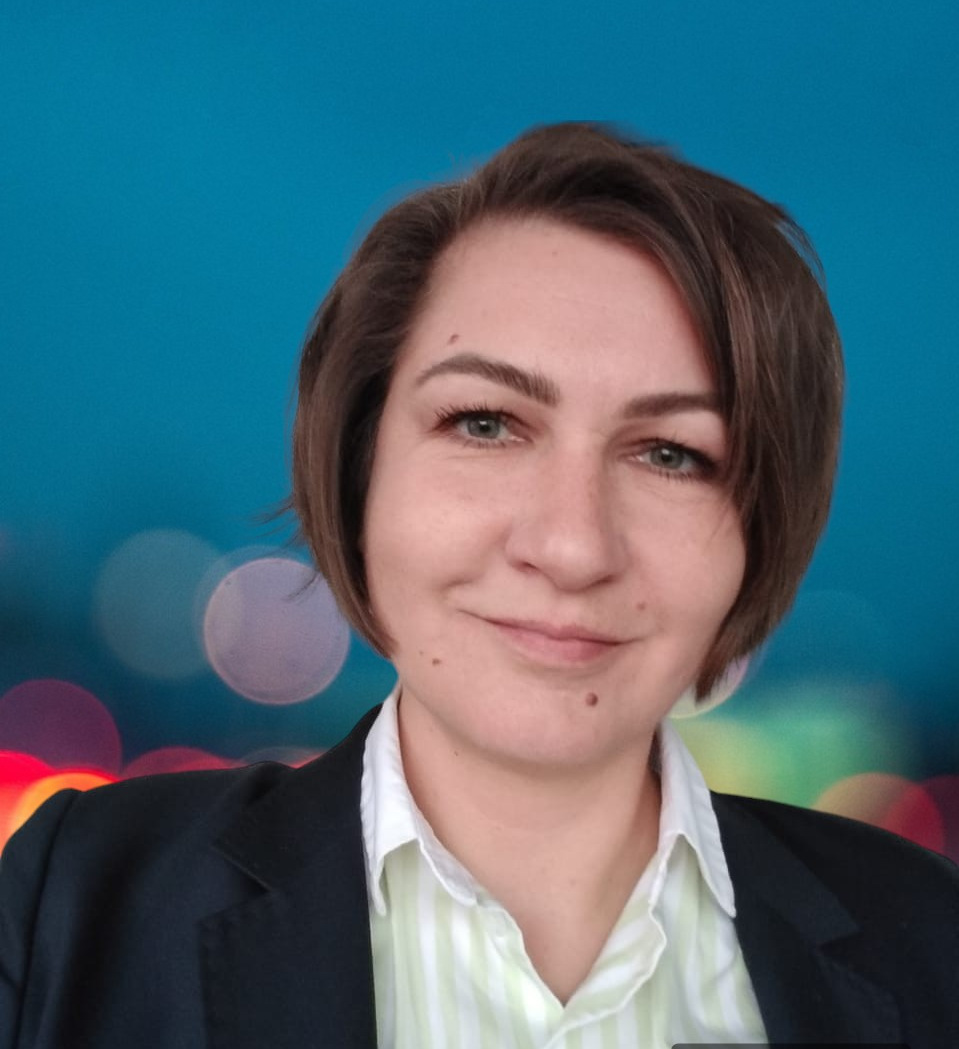
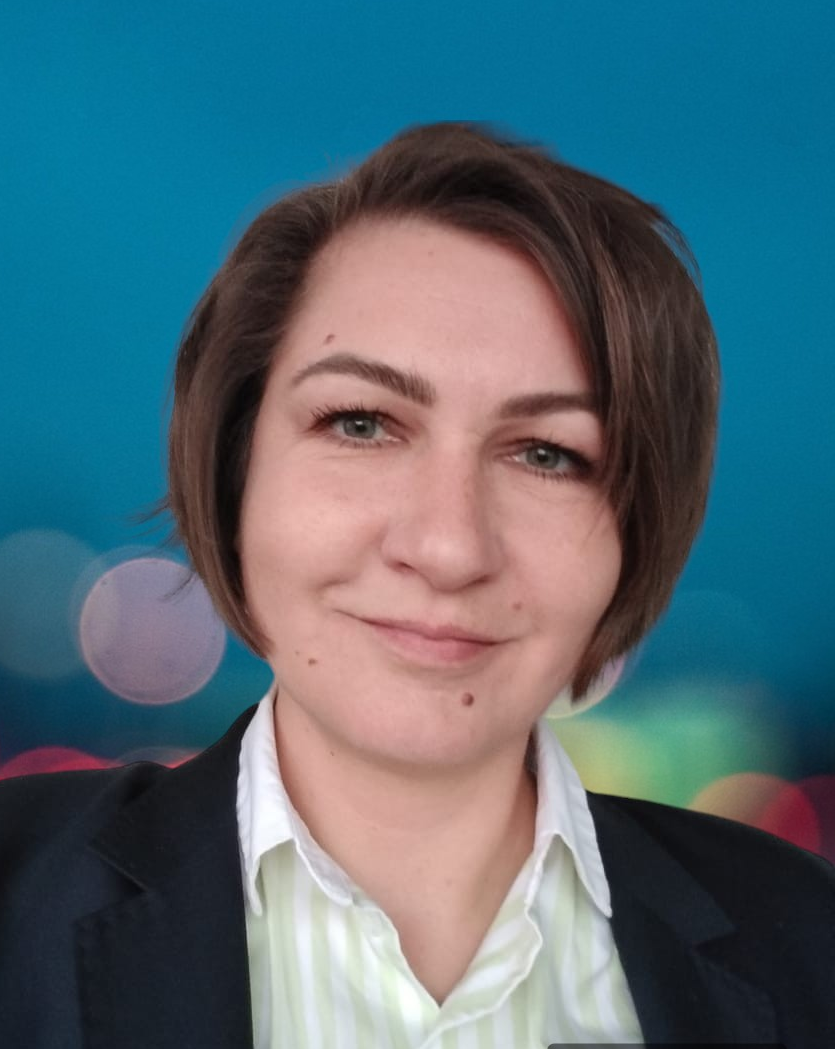
aboutme ready

diff --git a/src/css/style.min.css b/src/css/style.min.css
@@ -4,4 +4,4 @@
  * Copyright 2011-2019 Twitter, Inc.
  * Licensed under MIT (https://github.com/twbs/bootstrap/blob/master/LICENSE)
  * Forked from Normalize.css, licensed MIT (https://github.com/necolas/normalize.css/blob/master/LICENSE.md)
- */@import url(https://fonts.googleapis.com/css2?family=Poppins:wght@500;700&display=swap);*,::after,::before{box-sizing:border-box}html{font-family:sans-serif;line-height:1.15;-webkit-text-size-adjust:100%;-webkit-tap-highlight-color:rgba(0,0,0,0)}article,aside,figcaption,figure,footer,header,hgroup,main,nav,section{display:block}body{margin:0;font-family:-apple-system,BlinkMacSystemFont,"Segoe UI",Roboto,"Helvetica Neue",Arial,"Noto Sans",sans-serif,"Apple Color Emoji","Segoe UI Emoji","Segoe UI Symbol","Noto Color Emoji";font-size:1rem;font-weight:400;line-height:1.5;color:#212529;text-align:left;background-color:#fff}[tabindex="-1"]:focus{outline:0!important}hr{box-sizing:content-box;height:0;overflow:visible}h1,h2,h3,h4,h5,h6{margin-top:0;margin-bottom:.5rem}p{margin-top:0;margin-bottom:1rem}abbr[data-original-title],abbr[title]{text-decoration:underline;-webkit-text-decoration:underline dotted;text-decoration:underline dotted;cursor:help;border-bottom:0;-webkit-text-decoration-skip-ink:none;text-decoration-skip-ink:none}address{margin-bottom:1rem;font-style:normal;line-height:inherit}dl,ol,ul{margin-top:0;margin-bottom:1rem}ol ol,ol ul,ul ol,ul ul{margin-bottom:0}dt{font-weight:700}dd{margin-bottom:.5rem;margin-left:0}blockquote{margin:0 0 1rem}b,strong{font-weight:bolder}small{font-size:80%}sub,sup{position:relative;font-size:75%;line-height:0;vertical-align:baseline}sub{bottom:-.25em}sup{top:-.5em}a{color:#007bff;text-decoration:none;background-color:rgba(0,0,0,0)}a:hover{color:#0056b3;text-decoration:underline}a:not([href]):not([tabindex]){color:inherit;text-decoration:none}a:not([href]):not([tabindex]):focus,a:not([href]):not([tabindex]):hover{color:inherit;text-decoration:none}a:not([href]):not([tabindex]):focus{outline:0}code,kbd,pre,samp{font-family:SFMono-Regular,Menlo,Monaco,Consolas,"Liberation Mono","Courier New",monospace;font-size:1em}pre{margin-top:0;margin-bottom:1rem;overflow:auto}figure{margin:0 0 1rem}img{vertical-align:middle;border-style:none}svg{overflow:hidden;vertical-align:middle}table{border-collapse:collapse}caption{padding-top:.75rem;padding-bottom:.75rem;color:#6c757d;text-align:left;caption-side:bottom}th{text-align:inherit}label{display:inline-block;margin-bottom:.5rem}button{border-radius:0}button:focus{outline:1px dotted;outline:5px auto -webkit-focus-ring-color}button,input,optgroup,select,textarea{margin:0;font-family:inherit;font-size:inherit;line-height:inherit}button,input{overflow:visible}button,select{text-transform:none}select{word-wrap:normal}[type=button],[type=reset],[type=submit],button{-webkit-appearance:button}[type=button]:not(:disabled),[type=reset]:not(:disabled),[type=submit]:not(:disabled),button:not(:disabled){cursor:pointer}[type=button]::-moz-focus-inner,[type=reset]::-moz-focus-inner,[type=submit]::-moz-focus-inner,button::-moz-focus-inner{padding:0;border-style:none}input[type=checkbox],input[type=radio]{box-sizing:border-box;padding:0}input[type=date],input[type=datetime-local],input[type=month],input[type=time]{-webkit-appearance:listbox}textarea{overflow:auto;resize:vertical}fieldset{min-width:0;padding:0;margin:0;border:0}legend{display:block;width:100%;max-width:100%;padding:0;margin-bottom:.5rem;font-size:1.5rem;line-height:inherit;color:inherit;white-space:normal}progress{vertical-align:baseline}[type=number]::-webkit-inner-spin-button,[type=number]::-webkit-outer-spin-button{height:auto}[type=search]{outline-offset:-2px;-webkit-appearance:none}[type=search]::-webkit-search-decoration{-webkit-appearance:none}::-webkit-file-upload-button{font:inherit;-webkit-appearance:button}output{display:inline-block}summary{display:list-item;cursor:pointer}template{display:none}[hidden]{display:none!important}*{font-family:Poppins,sans-serif;margin:0;padding:0}.container{width:1140px;margin:0 auto}.promo{min-height:100vh;position:relative;background:url(../img/bg-laptop.png) no-repeat 50%/cover;padding-top:205px;color:#fff}.promo_title{margin-top:10px}.promo_btns{margin-top:25px;display:flex;font-weight:700;width:250px;align-items:center;justify-content:space-between}.promo_link{color:#fff}.promo_link:hover{color:#fff;text-decoration:none}.promo_about:hover{box-shadow:0 0 40px #ffa501;border-radius:8px;background-color:rgba(255,165,1,.34)}.promo_subtitle{position:relative;padding-left:10px;z-index:2}.promo_subtitle:before{content:"";position:absolute;width:36px;height:36px;border-radius:100%;background:#ffa501;left:0;top:-25%;z-index:-1}.title{font-weight:700;font-size:36px;line-height:60px}.title_fz16{font-size:16px;line-height:24px}.title_fz48{font-size:48px}.title_fz14{font-size:14px;line-height:21px}.title_fz24{font-size:24px;line-height:26px}.btn{width:135px;height:45px;background-color:#ffa501;border-radius:5px;box-shadow:0 4px 4px rgba(0,0,0,.3);padding:12px 25px}.btn:hover{box-shadow:0 0 30px #ffa501}.sidepanel{position:fixed;display:flex;z-index:3;flex-direction:column;justify-content:space-between;align-items:center;height:340px;top:230px;left:50px;color:#fff}.sidepanel_divider{width:2px;height:70px;background-color:#fff}.sidepanel_text{height:150px;width:25px}.sidepanel_text span{display:block;width:150px;transform:rotate(-90deg) translate(-30%,-260%)}.sidepanel_link:hover{box-shadow:0 0 40px #ffa501}.hamburger{position:absolute;width:36px;display:flex;flex-wrap:wrap;justify-content:end;align-items:flex-end;top:20px;right:30px;cursor:pointer}.hamburger span{display:block;margin-bottom:6px;width:30px;height:3px;background:#fff}.hamburger span.long{width:36px}.hamburger:hover{box-shadow:0 0 40px #ffa501;border-radius:8px;background-color:rgba(255,165,1,.24)}.menu{position:fixed;top:0;left:-100%;width:100%;height:100vh;z-index:10;visibility:hidden;opacity:0;transition:all .5s}.menu.active{left:0;visibility:visible;opacity:1}.menu_block{background-color:#ffa501;color:#fff;position:relative;width:345px;height:100%;transition:all .5s;z-index:10}.menu_close{position:absolute;top:25px;left:290px;cursor:pointer}.menu_list{padding-top:140px;padding-left:75px;list-style-type:none;font-weight:700}.menu_link{margin-bottom:17px;position:relative}.menu_link:before{content:"";position:absolute;left:-30px;top:5px;width:15px;height:15px;border:1.5px solid #000;border-radius:100%;transition:all .5s}.menu_link:hover:before{background-color:#fff}.menu_link a{color:#fff;text-decoration:none}.menu_social{position:absolute;display:flex;justify-content:space-between;left:128px;bottom:50px;width:90px}.menu_overlay{top:0;position:fixed;left:0;width:100%;height:100%;background-color:#fff;opacity:.5}
+ */@import url(https://fonts.googleapis.com/css2?family=Poppins:wght@500;700&display=swap);*,::after,::before{box-sizing:border-box}html{font-family:sans-serif;line-height:1.15;-webkit-text-size-adjust:100%;-webkit-tap-highlight-color:rgba(0,0,0,0)}article,aside,figcaption,figure,footer,header,hgroup,main,nav,section{display:block}body{margin:0;font-family:-apple-system,BlinkMacSystemFont,"Segoe UI",Roboto,"Helvetica Neue",Arial,"Noto Sans",sans-serif,"Apple Color Emoji","Segoe UI Emoji","Segoe UI Symbol","Noto Color Emoji";font-size:1rem;font-weight:400;line-height:1.5;color:#212529;text-align:left;background-color:#fff}[tabindex="-1"]:focus{outline:0!important}hr{box-sizing:content-box;height:0;overflow:visible}h1,h2,h3,h4,h5,h6{margin-top:0;margin-bottom:.5rem}p{margin-top:0;margin-bottom:1rem}abbr[data-original-title],abbr[title]{text-decoration:underline;-webkit-text-decoration:underline dotted;text-decoration:underline dotted;cursor:help;border-bottom:0;-webkit-text-decoration-skip-ink:none;text-decoration-skip-ink:none}address{margin-bottom:1rem;font-style:normal;line-height:inherit}dl,ol,ul{margin-top:0;margin-bottom:1rem}ol ol,ol ul,ul ol,ul ul{margin-bottom:0}dt{font-weight:700}dd{margin-bottom:.5rem;margin-left:0}blockquote{margin:0 0 1rem}b,strong{font-weight:bolder}small{font-size:80%}sub,sup{position:relative;font-size:75%;line-height:0;vertical-align:baseline}sub{bottom:-.25em}sup{top:-.5em}a{color:#007bff;text-decoration:none;background-color:rgba(0,0,0,0)}a:hover{color:#0056b3;text-decoration:underline}a:not([href]):not([tabindex]){color:inherit;text-decoration:none}a:not([href]):not([tabindex]):focus,a:not([href]):not([tabindex]):hover{color:inherit;text-decoration:none}a:not([href]):not([tabindex]):focus{outline:0}code,kbd,pre,samp{font-family:SFMono-Regular,Menlo,Monaco,Consolas,"Liberation Mono","Courier New",monospace;font-size:1em}pre{margin-top:0;margin-bottom:1rem;overflow:auto}figure{margin:0 0 1rem}img{vertical-align:middle;border-style:none}svg{overflow:hidden;vertical-align:middle}table{border-collapse:collapse}caption{padding-top:.75rem;padding-bottom:.75rem;color:#6c757d;text-align:left;caption-side:bottom}th{text-align:inherit}label{display:inline-block;margin-bottom:.5rem}button{border-radius:0}button:focus{outline:1px dotted;outline:5px auto -webkit-focus-ring-color}button,input,optgroup,select,textarea{margin:0;font-family:inherit;font-size:inherit;line-height:inherit}button,input{overflow:visible}button,select{text-transform:none}select{word-wrap:normal}[type=button],[type=reset],[type=submit],button{-webkit-appearance:button}[type=button]:not(:disabled),[type=reset]:not(:disabled),[type=submit]:not(:disabled),button:not(:disabled){cursor:pointer}[type=button]::-moz-focus-inner,[type=reset]::-moz-focus-inner,[type=submit]::-moz-focus-inner,button::-moz-focus-inner{padding:0;border-style:none}input[type=checkbox],input[type=radio]{box-sizing:border-box;padding:0}input[type=date],input[type=datetime-local],input[type=month],input[type=time]{-webkit-appearance:listbox}textarea{overflow:auto;resize:vertical}fieldset{min-width:0;padding:0;margin:0;border:0}legend{display:block;width:100%;max-width:100%;padding:0;margin-bottom:.5rem;font-size:1.5rem;line-height:inherit;color:inherit;white-space:normal}progress{vertical-align:baseline}[type=number]::-webkit-inner-spin-button,[type=number]::-webkit-outer-spin-button{height:auto}[type=search]{outline-offset:-2px;-webkit-appearance:none}[type=search]::-webkit-search-decoration{-webkit-appearance:none}::-webkit-file-upload-button{font:inherit;-webkit-appearance:button}output{display:inline-block}summary{display:list-item;cursor:pointer}template{display:none}[hidden]{display:none!important}*{font-family:Poppins,sans-serif;margin:0;padding:0}.container{width:1140px;margin:0 auto}.promo{min-height:100vh;position:relative;background:url(../img/bg-laptop.png) no-repeat 50%/cover;padding-top:205px;color:#fff}.promo_title{margin-top:10px}.promo_btns{margin-top:25px;display:flex;font-weight:700;width:250px;align-items:center;justify-content:space-between}.promo_link{color:#fff}.promo_link:hover{color:#fff;text-decoration:none}.promo_about:hover{box-shadow:0 0 40px #ffa501;border-radius:8px;background-color:rgba(255,165,1,.34)}.promo_subtitle{position:relative;padding-left:10px;z-index:2}.promo_subtitle:before{content:"";position:absolute;width:36px;height:36px;border-radius:100%;background:#ffa501;left:0;top:-25%;z-index:-1}.title{font-weight:700;font-size:36px;line-height:60px}.title_fz16{font-size:16px;line-height:24px}.title_fz48{font-size:48px}.title_fz14{font-size:14px;line-height:21px;font-weight:700}.title_fz24{font-size:24px;line-height:26px}.title_fz36{font-weight:700;font-size:36px;line-height:167%}.text{font-weight:500;font-size:12px;color:#000}.btn{width:135px;height:45px;background-color:#ffa501;border-radius:5px;box-shadow:0 4px 4px rgba(0,0,0,.3);padding:12px 25px}.btn:hover{box-shadow:0 0 30px #ffa501}.sidepanel{position:fixed;display:flex;z-index:3;flex-direction:column;justify-content:space-between;align-items:center;height:340px;top:230px;left:50px;color:#fff}.sidepanel_divider{width:2px;height:70px;background-color:#fff}.sidepanel_text{height:150px;width:25px}.sidepanel_text span{display:block;width:150px;transform:rotate(-90deg) translate(-30%,-260%)}.sidepanel_link:hover{box-shadow:0 0 40px #ffa501}.hamburger{position:absolute;width:36px;display:flex;flex-wrap:wrap;justify-content:end;align-items:flex-end;top:20px;right:30px;cursor:pointer}.hamburger span{display:block;margin-bottom:6px;width:30px;height:3px;background:#fff}.hamburger span.long{width:36px}.hamburger:hover{box-shadow:0 0 40px #ffa501;border-radius:8px;background-color:rgba(255,165,1,.24)}.menu{position:fixed;top:0;left:-100%;width:100%;height:100vh;z-index:10;visibility:hidden;opacity:1;transition:all .5s}.menu.active{left:0;visibility:visible;opacity:1}.menu_block{background-color:#ffa501;color:#fff;position:relative;width:345px;height:100%;transition:all .5s;z-index:10}.menu_close{position:absolute;top:25px;left:290px;cursor:pointer}.menu_list{padding-top:140px;padding-left:75px;list-style-type:none;font-weight:700}.menu_link{margin-bottom:17px;position:relative}.menu_link:before{content:"";position:absolute;left:-30px;top:5px;width:15px;height:15px;border:1.5px solid #000;border-radius:100%;transition:all .5s}.menu_link:hover:before{background-color:#fff}.menu_link a{color:#fff;text-decoration:none}.menu_social{position:absolute;display:flex;justify-content:space-between;left:128px;bottom:50px;width:90px}.menu_overlay{top:0;position:fixed;left:0;width:100%;height:100%;background-color:#fff;opacity:.5}.grid-container{margin-top:120px;display:grid;width:1400px;height:600px;grid-template-columns:400px 380px 380px;grid-template-rows:260px 155px 205px;grid-template-areas:"main-foto about about" "main-foto skill-1 skill-2" "main-foto skill-3 skill-4"}#main-foto{grid-area:main-foto}#about{grid-area:about;margin-left:70px}#skill-1{grid-area:skill-1;margin-left:130px;position:relative}#skill-2{grid-area:skill-2;margin-left:85px;position:relative}#skill-3{grid-area:skill-3;margin-left:130px;position:relative}#skill-4{grid-area:skill-4;position:relative;margin-left:85px}.my_foto{width:400px;height:500px}.aboutme_divider{border:2px solid #ffa501;width:60px;height:0;margin-bottom:20px}.aboutme_subtitle{padding-left:12px;position:relative}.aboutme_subtitle:before{content:"";position:absolute;width:36px;height:36px;border-radius:100%;background:#ffa501;left:0;top:-25%;z-index:-1}.aboutme_text{margin-top:20px}.aboutme_img{position:absolute;left:-45px;top:15px}.aboutme_stitle{position:relative}.aboutme_stitle:before{content:"";position:absolute;width:36px;height:36px;border-radius:100%;background:#ffa501;left:-60px;top:0;z-index:-1}.text{padding-top:6px}

diff --git a/src/index.html b/src/index.html
@@ -58,7 +58,7 @@
         <div class="sidepanel_text"><span>Социальные сети</span></div>
 
     </aside>
-    <div class="menu active">
+    <div class="menu ">  <!-- active -->
         <div class="menu_block">
             <div class="menu_close">
                 <svg width="29" height="30" viewBox="0 0 29 30" fill="none" xmlns="http://www.w3.org/2000/svg">
@@ -122,6 +122,43 @@
             <div class="promo_btns">
                 <a href="#" class="promo_link btn">Портфолио</a>
                 <a href="#" class="promo_link promo_about">Про меня</a>
+            </div>
+        </div>
+    </section>
+    <section class="aboutme">
+        <div class="container">
+            <div class="grid-container">
+                <div class="grid-elem" id="main-foto"> <img src="img/main_foto.png" alt="foto" class="my_foto"> </div>
+                <div class="grid-elem" id="about">
+                    <div class="aboutme_subtitle title title_fz16">Про меня</div>
+                    <div class="aboutme_title title_fz36">Меня зовут Мария</div>
+                    <div class="aboutme_divider"></div>
+                    <div class="aboutme_text title_fz14">
+                        Lorem ipsum dolor sit amet, consectetur adipiscing elit, sed do eiusmod tempor incididunt ut labore et dolore magna aliqua. Ut enim ad minim veniam, quis nostrud exercitation ullamco laboris nisi ut aliquip ex ea commodo consequat. Duis aute irure dolor in reprehenderit in voluptate velit esse cillum dolore eu fugiat nulla pariatur. Excepteur sint occaecat cupidatat non proident, sunt in culpa qui officia deserunt mollit anim id est laborum
+                    </div>
+                </div>
+                <div class="grid-elem" id="skill-1">
+                    <img src="icons/about_me/web_development.svg" alt="img1" class="aboutme_img">
+                    <div class="title_fz14 aboutme_stitle">Web-разработка</div>
+                    <div class="text">Lorem ipsum dolor sit amet, consectetur adipiscing elit, sed do eiusmod tempor incididunt ut labore et dolore magna aliqua.</div>
+                </div>
+                <div class="grid-elem" id="skill-2">
+                    <img src="icons/about_me/mobile_dev.svg" alt="img2" class="aboutme_img">
+                    <div class="title_fz14 aboutme_stitle">Разработка приложений</div>
+                    <div class="text">Lorem ipsum dolor sit amet, consectetur adipiscing elit, sed do eiusmod tempor incididunt ut labore et dolore magna aliqua.</div>
+                    
+                </div>
+                <div class="grid-elem" id="skill-3">
+                    <img src="icons/about_me/design.svg" alt="img3" class="aboutme_img">
+                    <div class="title_fz14 aboutme_stitle">UI/UX Design</div>
+                    <div class="text">Lorem ipsum dolor sit amet, consectetur adipiscing elit, sed do eiusmod tempor incididunt ut labore et dolore magna aliqua.</div>
+                </div>
+                <div class="grid-elem" id="skill-4">
+                    <img src="icons/about_me/design.svg" alt="img3" class="aboutme_img">
+                    <div class="title_fz14 aboutme_stitle">UI/UX Design</div>
+                    <div class="text">Lorem ipsum dolor sit amet, consectetur adipiscing elit, sed do eiusmod tempor incididunt ut labore et dolore magna aliqua.</div>
+                
+                </div>
             </div>
         </div>
     </section>

diff --git a/src/sass/blocks/_section-aboutme.scss b/src/sass/blocks/_section-aboutme.scss
@@ -1,0 +1,78 @@
+.grid-container {
+    margin-top: 120px;
+    display: grid;
+    width: 1400px;
+    height: 600px;
+    grid-template-columns: 400px 380px 380px;
+    grid-template-rows: 260px 155px 205px;
+    grid-template-areas: 
+    "main-foto about about"
+    "main-foto skill-1 skill-2"
+    "main-foto skill-3 skill-4"
+
+}
+#main-foto {
+    grid-area: main-foto;
+   
+
+}
+#about {
+    grid-area: about;
+    margin-left: 70px;
+}
+#skill-1 {
+    grid-area: skill-1;
+    margin-left: 130px;
+    position: relative;
+}
+#skill-2 {
+    grid-area: skill-2;
+    margin-left: 85px;
+    position: relative;
+}
+#skill-3 {
+    grid-area: skill-3;
+    margin-left: 130px;
+    position: relative;
+}
+#skill-4 {
+    grid-area: skill-4;
+    position: relative;
+    margin-left: 85px;
+}
+.my_foto {
+    width: 400px;
+    height: 500px;
+}
+.aboutme {
+    &_divider  {
+        border: 2px solid $main-color;
+        width: 60px;
+        height: 0px;
+        margin-bottom: 20px;
+
+    }
+    &_subtitle {
+        padding-left: 12px;
+        position: relative;
+        @include circle;
+    }
+    &_text {
+        margin-top: 20px;
+    }
+    &_img {
+        position: absolute;
+        left: -45px;
+        top: 15px;
+        
+    }
+    &_stitle {
+        position: relative;
+        @include circle-dos;       
+    }
+    
+}
+.text {
+    padding-top: 6px;
+          
+}

diff --git a/src/js/script.js b/src/js/script.js
@@ -1,11 +1,11 @@
 const hamburger = document.querySelector('.hamburger'),
     menu = document.querySelector('.menu'),
-    close = document.querySelector('.menu_close');
+    closeElem = document.querySelector('.menu_close');
 
 hamburger.addEventListener('click' , () => {
     menu.classList.add('active');
 });
 
-close.addEventListener('click' , () => {
+closeElem.addEventListener('click' , () => {
     menu.classList.remove('active');
 });

diff --git a/src/sass/blocks/_title.scss b/src/sass/blocks/_title.scss
@@ -12,9 +12,20 @@
     &_fz14 {
         font-size: 14px;
         line-height: 21px;
+        font-weight: 700;
     }
     &_fz24 {
         font-size: 24px;
         line-height: 26px;
     }
+    &_fz36 {
+        font-weight: 700;
+        font-size: 36px;
+        line-height: 167%;
+    }
+}
+.text {
+    font-weight: 500;
+    font-size: 12px;
+    color: #000;
 }

diff --git a/src/sass/base/_mixins.scss b/src/sass/base/_mixins.scss
@@ -11,3 +11,16 @@
         z-index: -1;
     }
 }
+@mixin circle-dos {
+    &:before {
+        content: '';
+        position: absolute;
+        width: 36px;
+        height: 36px;
+        border-radius: 100%;
+        background: $main-color;
+        left: -60px;
+        top: 0px;
+        z-index: -1;
+    }
+}

diff --git a/src/sass/blocks/_menu.scss b/src/sass/blocks/_menu.scss
@@ -33,10 +33,10 @@
     height: 100vh;
     z-index: 10;
     visibility: hidden;
-    opacity: 0; 
+    opacity: 1;
     transition: all 0.5s;
     &.active {
-        left: 0; 
+        left: 0;
         visibility: visible;
         opacity: 1;
     }

diff --git a/src/sass/style.scss b/src/sass/style.scss
@@ -19,4 +19,5 @@
 @import 'blocks/title';
 @import 'blocks/button';
 @import 'blocks/sidepanel';
-@import 'blocks/menu'
+@import 'blocks/menu';
+@import 'blocks/section-aboutme';
